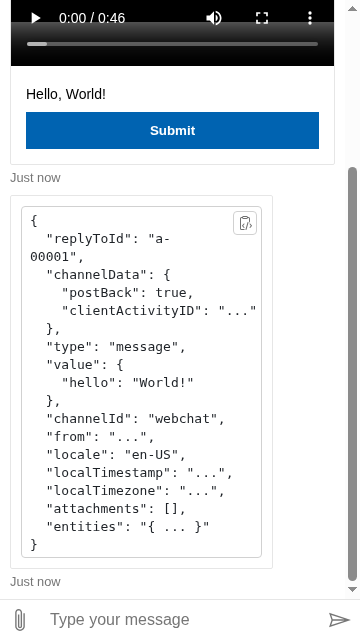
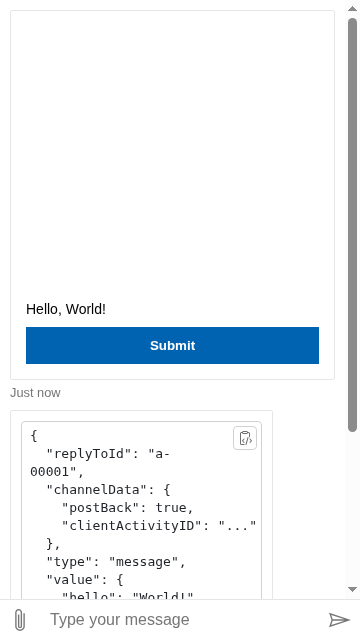
Hide video controls

diff --git a/__tests__/html2/replyToId/cardAction/animationCard.html b/__tests__/html2/replyToId/cardAction/animationCard.html
@@ -64,6 +64,11 @@
           type: 'message'
         });
 
+        // Hide the controls because the timeline contains buffer size which will never converge.
+        // We poll every 500ms until got 5 stable numbers.
+        // However, the buffer size range from 3.035s to 3.238s, which produce different snapshot.
+        document.querySelector('video').controls = false;
+
         const submitButton = pageElements.activities()[0].querySelector('.ac-pushButton');
 
         const { activity, resolveAll } = await directLine.actPostActivity(() => host.click(submitButton));
